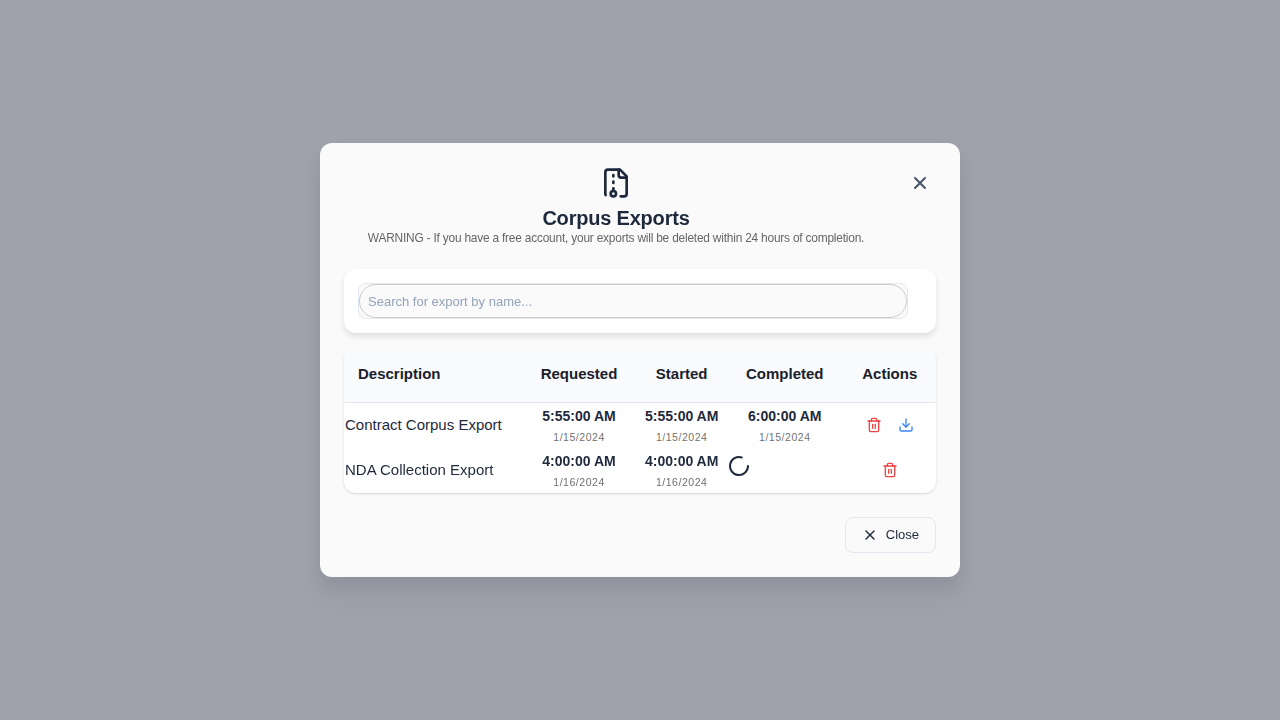
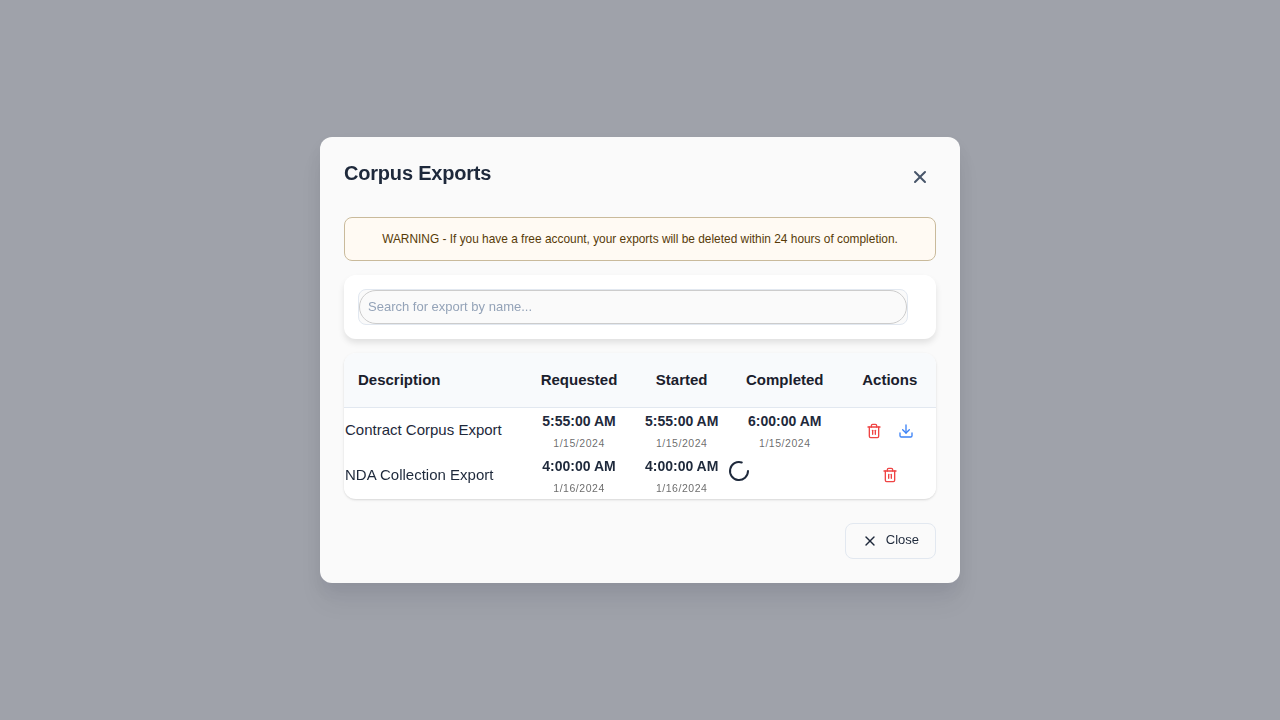
Address review items: fix ModalHeader props, unused import, ExportModal title, missing TODO

diff --git a/frontend/src/components/widgets/modals/ExportModal.tsx b/frontend/src/components/widgets/modals/ExportModal.tsx
@@ -9,7 +9,7 @@ import {
   ModalFooter,
   Button,
 } from "@os-legal/ui";
-import { FileArchive, X } from "lucide-react";
+import { X } from "lucide-react";
 import _ from "lodash";
 import { CreateAndSearchBar } from "../../layout/CreateAndSearchBar";
 import { LoadingOverlay } from "../../common/LoadingOverlay";
@@ -161,29 +161,23 @@ export function ExportModal({ visible, toggleModal }: ExportModalProps) {
 
   return (
     <Modal open={visible} onClose={() => toggleModal()} size="lg">
-      <ModalHeader
-        title={
-          <div
-            style={{
-              width: "100%",
-              display: "flex",
-              flexDirection: "column",
-              alignItems: "center",
-            }}
-          >
-            <FileArchive size={32} style={{ marginBottom: "0.5rem" }} />
-            <span>Corpus Exports</span>
-            <div
-              style={{ fontSize: "0.85rem", color: "#666", fontWeight: 400 }}
-            >
-              WARNING - If you have a free account, your exports will be deleted
-              within 24 hours of completion.
-            </div>
-          </div>
-        }
-        onClose={() => toggleModal()}
-      />
+      <ModalHeader title="Corpus Exports" onClose={() => toggleModal()} />
       <ModalBody style={{ position: "relative" }}>
+        <div
+          style={{
+            padding: "0.75rem",
+            background: "#fffaf3",
+            border: "1px solid #c9ba9b",
+            borderRadius: "8px",
+            fontSize: "0.85rem",
+            color: "#573a08",
+            marginBottom: "1rem",
+            textAlign: "center",
+          }}
+        >
+          WARNING - If you have a free account, your exports will be deleted
+          within 24 hours of completion.
+        </div>
         <LoadingOverlay
           active={exports_loading}
           inverted

diff --git a/frontend/src/components/annotator/renderers/txt/TxtAnnotator.tsx b/frontend/src/components/annotator/renderers/txt/TxtAnnotator.tsx
@@ -1248,7 +1248,13 @@ const TxtAnnotator: React.FC<TxtAnnotatorProps> = ({
             setAnnotationToEdit(null);
           }}
         >
-          <ModalHeader>Edit Annotation Label</ModalHeader>
+          <ModalHeader
+            title="Edit Annotation Label"
+            onClose={() => {
+              setEditModalOpen(false);
+              setAnnotationToEdit(null);
+            }}
+          />
           <ModalBody>
             {annotationToEdit && (
               <Dropdown

diff --git a/frontend/src/components/corpuses/CorpusDocumentRelationships.tsx b/frontend/src/components/corpuses/CorpusDocumentRelationships.tsx
@@ -1,6 +1,7 @@
 import React, { useState, useCallback, useMemo } from "react";
 import { useQuery, useMutation } from "@apollo/client";
 import styled from "styled-components";
+// TODO: Migrate Dropdown to @os-legal/ui when available
 import { Dropdown } from "semantic-ui-react";
 import { Button, IconButton, Spinner } from "@os-legal/ui";
 import { AlertCircle, StickyNote } from "lucide-react";

diff --git a/frontend/src/components/knowledge_base/document/__tests__/NewNoteModal.test.tsx b/frontend/src/components/knowledge_base/document/__tests__/NewNoteModal.test.tsx
@@ -82,7 +82,7 @@ describe("NewNoteModal", () => {
       expect(
         screen.getByPlaceholderText("Write your note here...")
       ).toBeInTheDocument();
-      expect(screen.getByText("Markdown Support")).toBeInTheDocument();
+      expect(screen.getByText("Markdown supported:")).toBeInTheDocument();
     });
 
     it("should not render when closed", () => {

diff --git a/frontend/src/components/community/Leaderboard.tsx b/frontend/src/components/community/Leaderboard.tsx
@@ -1,7 +1,7 @@
 import React, { useState } from "react";
 import { useQuery } from "@apollo/client";
 import { Table, Dropdown } from "semantic-ui-react";
-import { StatBlock, StatGrid } from "@os-legal/ui";
+import { StatBlock } from "@os-legal/ui";
 import styled from "styled-components";
 import { useNavigate } from "react-router-dom";
 import {
